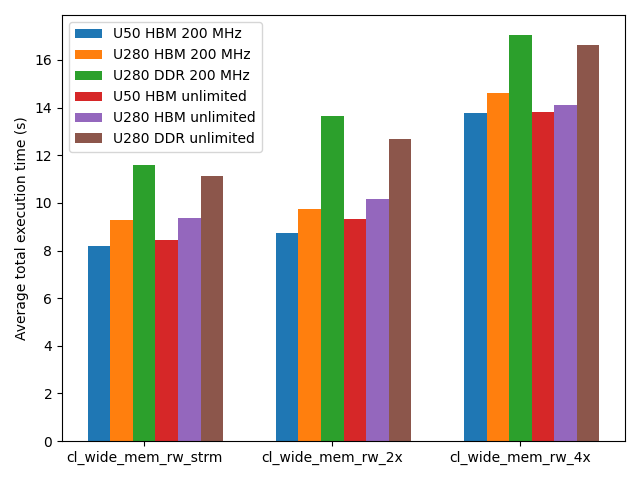
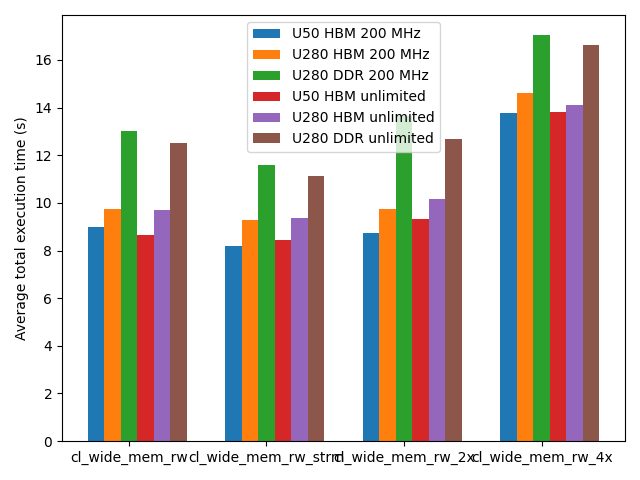
Move cl_wide_mem_rw to memory intensive plot

diff --git a/performance/execution-time-widemem.py b/performance/execution-time-widemem.py
@@ -5,12 +5,12 @@ import numpy as np
 import matplotlib.pyplot as plt
 
 # cl_wide_mem_{strm,2x,4x}
-df_u50_slow = pd.read_csv("../data/u50-slow-vitis.csv", skipinitialspace=True).iloc[11:]
-df_u50_fast = pd.read_csv("../data/u50-fast-vitis.csv", skipinitialspace=True).iloc[11:]
-df_u280_slow = pd.read_csv("../data/u280-slow-vitis.csv", skipinitialspace=True).iloc[11:]
-df_u280_fast = pd.read_csv("../data/u280-fast-vitis.csv", skipinitialspace=True).iloc[11:]
-df_u280_ddr_slow = pd.read_csv("../data/u280-ddr-slow-vitis.csv", skipinitialspace=True).iloc[11:]
-df_u280_ddr_fast = pd.read_csv("../data/u280-ddr-fast-vitis.csv", skipinitialspace=True).iloc[11:]
+df_u50_slow = pd.read_csv("../data/u50-slow-vitis.csv", skipinitialspace=True).iloc[10:]
+df_u50_fast = pd.read_csv("../data/u50-fast-vitis.csv", skipinitialspace=True).iloc[10:]
+df_u280_slow = pd.read_csv("../data/u280-slow-vitis.csv", skipinitialspace=True).iloc[10:]
+df_u280_fast = pd.read_csv("../data/u280-fast-vitis.csv", skipinitialspace=True).iloc[10:]
+df_u280_ddr_slow = pd.read_csv("../data/u280-ddr-slow-vitis.csv", skipinitialspace=True).iloc[10:]
+df_u280_ddr_fast = pd.read_csv("../data/u280-ddr-fast-vitis.csv", skipinitialspace=True).iloc[10:]
 
 # Sum up data transfer + kernel execution time
 for df in [df_u50_slow, df_u50_fast, df_u280_slow, df_u280_fast, df_u280_ddr_slow, df_u280_ddr_fast]:
@@ -48,7 +48,7 @@ plt.bar(x + 1 * bar_width, df_u50_fast["time_cpu"].values, width=bar_width, labe
 plt.bar(x + 2 * bar_width, df_u280_fast["time_cpu"].values, width=bar_width, label="U280 HBM unlimited")
 plt.bar(x + 3 * bar_width, df_u280_ddr_fast["time_cpu"].values, width=bar_width, label="U280 DDR unlimited")
 
-plt.xticks(x, app_names)
+plt.xticks(x, app_names, rotation=20)
 plt.ylabel("Data transfer + kernel time (s)")
 # plt.grid(which="both", axis="y")
 # plt.yscale("log")

diff --git a/performance/execution-time.py b/performance/execution-time.py
@@ -5,12 +5,12 @@ import numpy as np
 import matplotlib.pyplot as plt
 
 # Use first 11 rows, other cl_wide_mem_rw variants are handled in a different script
-df_u50_slow = pd.read_csv("../data/u50-slow-vitis.csv", skipinitialspace=True).iloc[:11]
-df_u50_fast = pd.read_csv("../data/u50-fast-vitis.csv", skipinitialspace=True).iloc[:11]
-df_u280_slow = pd.read_csv("../data/u280-slow-vitis.csv", skipinitialspace=True).iloc[:11]
-df_u280_fast = pd.read_csv("../data/u280-fast-vitis.csv", skipinitialspace=True).iloc[:11]
-df_u280_ddr_slow = pd.read_csv("../data/u280-ddr-slow-vitis.csv", skipinitialspace=True).iloc[:11]
-df_u280_ddr_fast = pd.read_csv("../data/u280-ddr-fast-vitis.csv", skipinitialspace=True).iloc[:11]
+df_u50_slow = pd.read_csv("../data/u50-slow-vitis.csv", skipinitialspace=True).iloc[:10]
+df_u50_fast = pd.read_csv("../data/u50-fast-vitis.csv", skipinitialspace=True).iloc[:10]
+df_u280_slow = pd.read_csv("../data/u280-slow-vitis.csv", skipinitialspace=True).iloc[:10]
+df_u280_fast = pd.read_csv("../data/u280-fast-vitis.csv", skipinitialspace=True).iloc[:10]
+df_u280_ddr_slow = pd.read_csv("../data/u280-ddr-slow-vitis.csv", skipinitialspace=True).iloc[:10]
+df_u280_ddr_fast = pd.read_csv("../data/u280-ddr-fast-vitis.csv", skipinitialspace=True).iloc[:10]
 
 # Sum up data transfer + kernel execution time
 for df in [df_u50_slow, df_u50_fast, df_u280_slow, df_u280_fast, df_u280_ddr_slow, df_u280_ddr_fast]:
